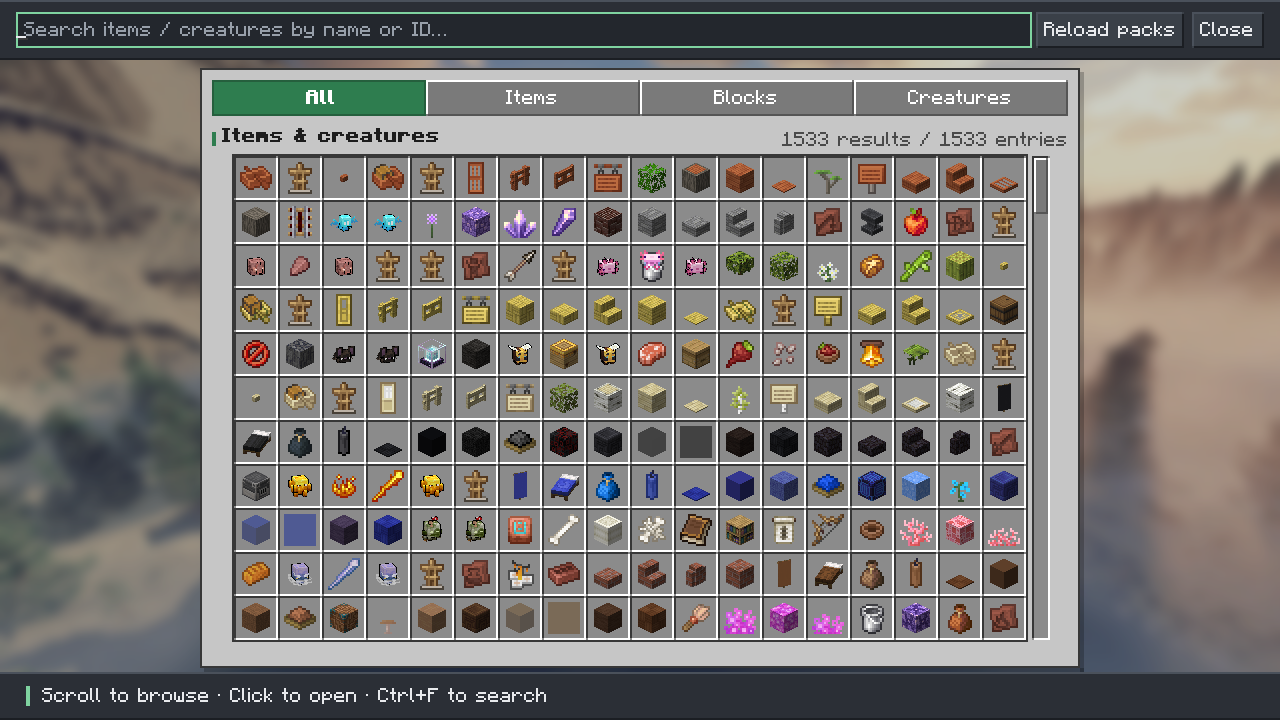
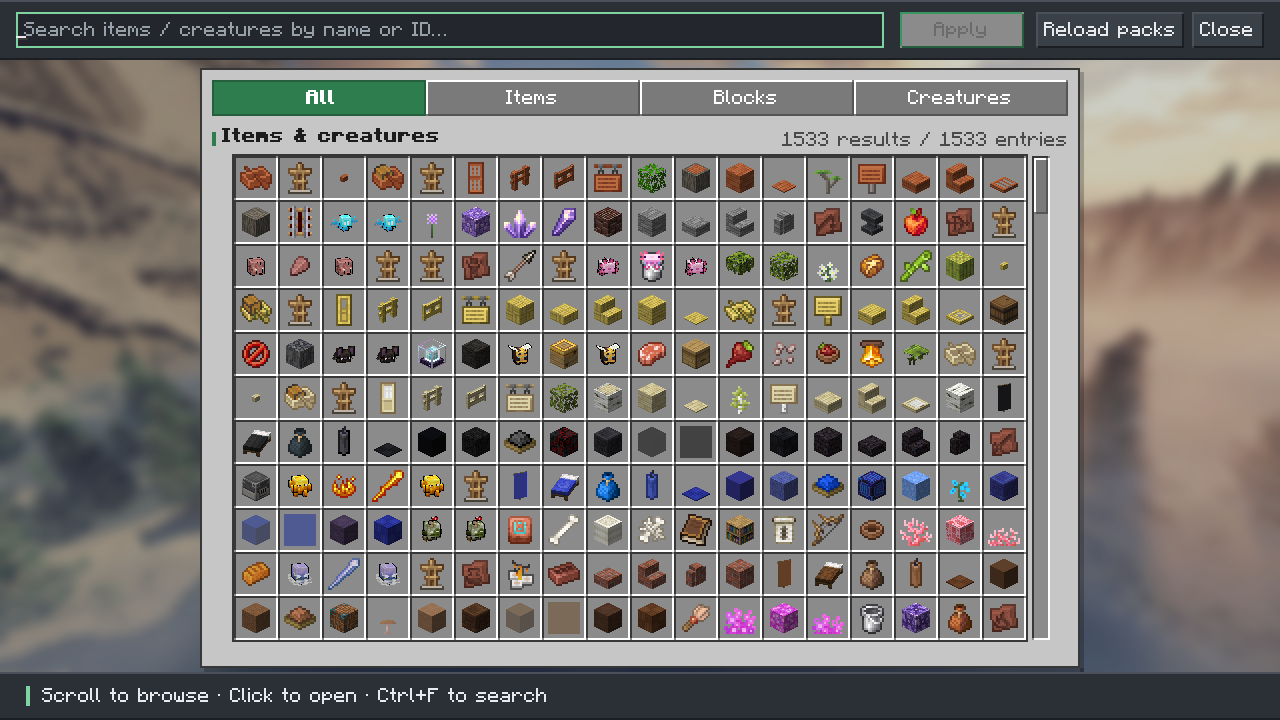
改完再应用：批改暂存，点应用只重载一次

diff --git a/src/client/java/com/abelian/client/ResourceManagerScreen.java b/src/client/java/com/abelian/client/ResourceManagerScreen.java
@@ -28,9 +28,9 @@ public final class ResourceManagerScreen extends Screen {
     private final Map<AbstractWidget, UiField> fields = new IdentityHashMap<>();
     private InventoryPage inventory;
     private UiField search;
-    private UiButton reload, close;
+    private UiButton reload, applyAll, close;
     private ResourceIndex.Snapshot snapshot;
-    private int generation, scanToken;
+    private int generation, scanToken, pendingEdits, reloads;
     private boolean scanning, closed;
     private long saveAt, statusUntil;
     private String query = "", status = "";
@@ -52,6 +52,10 @@ public final class ResourceManagerScreen extends Screen {
                             this::setSearchQuery)
                             .setChrome(true);
             reload = addButton("resourcemanager.ui.reload", this::reloadPacks).setStyle(UiButton.Style.CHROME);
+            applyAll = addButton("resourcemanager.ui.action.apply", this::applyPending)
+                    .setStyle(UiButton.Style.PRIMARY);
+            applyAll.setTooltip(
+                    Component.translatable("resourcemanager.ui.action.apply.hint").getString());
             close = addButton("resourcemanager.ui.close", this::onClose).setStyle(UiButton.Style.CHROME);
             inventory = new InventoryPage(this);
             inventory.createWidgets();
@@ -101,6 +105,9 @@ public final class ResourceManagerScreen extends Screen {
 
     public void reloadPacks() {
         if (scanning) return;
+        pendingEdits = 0;
+        reloads++;
+        syncApplyButton();
         inventory.refreshAppearanceRules();
         save();
         scanning = true;
@@ -128,6 +135,39 @@ public final class ResourceManagerScreen extends Screen {
         saveAt = Util.getMillis() + 400;
     }
 
+    /**
+     * Records one change that only becomes visible in game after the next pack reload. Edits are
+     * staged so a batch of them costs a single reload instead of one per click.
+     */
+    public void stageEdit() {
+        pendingEdits++;
+        syncApplyButton();
+    }
+
+    public int pendingEdits() {
+        return pendingEdits;
+    }
+
+    public int reloads() {
+        return reloads;
+    }
+
+    /** Confirm: one reload for every staged edit. */
+    public void applyPending() {
+        if (pendingEdits == 0) return;
+        reloadPacks();
+    }
+
+    private void syncApplyButton() {
+        if (applyAll == null) return;
+        applyAll.active = pendingEdits > 0 && !scanning;
+        applyAll.setMessage(
+                pendingEdits > 0
+                        ? Component.translatable(
+                                "resourcemanager.ui.action.applyCount", pendingEdits)
+                        : Component.translatable("resourcemanager.ui.action.apply"));
+    }
+
     private void save() {
         saveAt = 0;
         config.save();
@@ -139,7 +179,11 @@ public final class ResourceManagerScreen extends Screen {
     }
 
     public String displayedStatus() {
-        return Util.getMillis() < statusUntil ? status : inventory.statusText();
+        if (Util.getMillis() < statusUntil) return status;
+        if (pendingEdits > 0)
+            return Component.translatable("resourcemanager.ui.status.pending", pendingEdits)
+                    .getString();
+        return inventory.statusText();
     }
 
     public ResourceManagerConfig config() {
@@ -241,10 +285,12 @@ public final class ResourceManagerScreen extends Screen {
     }
 
     private void layout() {
-        showWidget(search.widget(), 8, 6, Math.max(40, width - 132), 18);
+        showWidget(search.widget(), 8, 6, Math.max(40, width - 206), 18);
+        showWidget(applyAll, width - 190, 6, 62, 18);
         showWidget(reload, width - 122, 6, 74, 18);
         showWidget(close, width - 44, 6, 36, 18);
         reload.active = !scanning;
+        syncApplyButton();
         inventory.layout();
         if (getFocused() instanceof AbstractWidget widget && !widget.visible) setFocused(null);
     }
@@ -341,6 +387,7 @@ public final class ResourceManagerScreen extends Screen {
     @Override
     public void removed() {
         closed = true;
+        if (pendingEdits > 0) reloadPacks();
         save();
         PackSoundPreview.stop();
         preview.release();

diff --git a/src/client/java/com/abelian/client/verify/InventoryVerify.java b/src/client/java/com/abelian/client/verify/InventoryVerify.java
@@ -164,8 +164,13 @@ public final class InventoryVerify {
                     check(
                             page.layerPacks().containsAll(List.of(PACK_A, PACK_B)),
                             "Appearance layers include model-only and texture-only packs");
+                    int stagedFrom = gui.reloads();
                     page.selectLayer(PACK_B);
                     page.applyLayer();
+                    check(gui.pendingEdits() == 1, "Applying a layer stages it instead of reloading");
+                    check(gui.reloads() == stagedFrom, "Staging a layer does not reload the packs");
+                    gui.applyPending();
+                    check(gui.pendingEdits() == 0, "Apply clears the staged batch");
                     next();
                     delay = 60;
                 }
@@ -193,8 +198,18 @@ public final class InventoryVerify {
                     check(
                             loads == page.previewLoads(),
                             "100 unchanged layouts do not decode another preview");
+                    int beforeReloads = gui.reloads();
+                    page.selectLayer(PACK_B);
+                    page.applyLayer();
                     page.selectLayer(PACK_A);
                     page.applyLayer();
+                    check(
+                            gui.pendingEdits() == 2,
+                            "Two applied layers wait for one shared reload");
+                    gui.applyPending();
+                    check(
+                            gui.reloads() == beforeReloads + 1,
+                            "A batch of edits costs a single reload");
                     next();
                     delay = 60;
                 }
@@ -318,6 +333,7 @@ public final class InventoryVerify {
                             "Audio-only pack is available without a sound definition");
                     page.selectLayer(PACK_B);
                     page.applyLayer();
+                    gui.applyPending();
                     next();
                     delay = 60;
                 }
@@ -539,6 +555,27 @@ public final class InventoryVerify {
                             serving(page.selectedAsset().location().getPath())
                                     .equals("file/ResourceManager-Edits"),
                             "Grouped local edits become the live provider after reload");
+                    next();
+                }
+                case 26 -> {
+                    page.setMode(0);
+                    var packs = page.layerPacks();
+                    check(!packs.isEmpty(), "Visuals mode offers at least one layer to stage");
+                    String pick = packs.contains("vanilla") ? "vanilla" : packs.get(0);
+                    page.selectLayer(pick);
+                    page.applyLayer();
+                    check(
+                            gui.pendingEdits() == 1,
+                            "A staged edit waits for the batch Apply button");
+                    shot = "readme-pending.png";
+                    next();
+                }
+                case 27 -> {
+                    int beforeReloads = gui.reloads();
+                    gui.applyPending();
+                    check(
+                            gui.reloads() == beforeReloads + 1,
+                            "Confirm reloads the packs exactly once");
                     next();
                 }
                 default -> finish(client);

diff --git a/src/client/java/com/abelian/client/page/InventoryPage.java b/src/client/java/com/abelian/client/page/InventoryPage.java
@@ -422,7 +422,8 @@ public final class InventoryPage {
         if (asset == null || pack.isEmpty()) return;
         if (mode == 0) {
             appearance.apply(host.config(), pack);
-            host.reloadPacks();
+            host.changed();
+            stage();
         } else if (mode == 1) {
             host.setTextOverride(subject.translationKey(), rawText);
             name.setValue(subject.name());
@@ -433,8 +434,15 @@ public final class InventoryPage {
                             pack,
                             catalog.soundDefinition(event(), pack),
                             catalog.audioFiles(event(), pack));
-            host.reloadPacks();
+            host.changed();
+            stage();
         }
+    }
+
+    /** Marks the row as pending and lets the player keep editing before one shared reload. */
+    private void stage() {
+        layers.setLayers(packRows, pack, appliedPack());
+        host.stageEdit();
     }
 
     private String event() {

diff --git a/docs/INVENTORY.md b/docs/INVENTORY.md
@@ -8,7 +8,7 @@ ResourceManager 在 Minecraft 1.21.4 Fabric 客户端中提供原生物品栏入
 
 ## 打开与浏览
 
-1. 按 F8 打开 Resource Manager。顶部是搜索框、重载与关闭；底部是状态栏，其余区域都属于物品栏。
+1. 按 F8 打开 Resource Manager。顶部是搜索框、应用、重载与关闭；底部是状态栏，其余区域都属于物品栏。
 2. 用 **全部 / 物品 / 方块 / 生物** 切分类。格子里画的是真实 ItemStack：方块用对应方块物品；生物用刷怪蛋，
    没有刷怪蛋的实体使用盔甲架图标，它不是生物的三维预览。
 3. 搜索框匹配显示名称、翻译键和命名空间 ID（如 `minecraft:diamond_sword`），中英文都可用，多个关键词按
@@ -49,11 +49,13 @@ ResourceManager 在 Minecraft 1.21.4 Fabric 客户端中提供原生物品栏入
 层列表只列出真正提供了这个对象某一部分的资源包，当前游戏正在使用的层在行首有一条绿色竖条。
 
 - **点击一行只预览**：选中行加深并加 1px 白框，更新贴图、文本或音频的预览来源，不改变游戏正在用的来源。
-- **游戏使用此层** 才应用：写入配置并立刻重载资源包。
+- **游戏使用此层** 只暂存：写入配置并标绿行首，顶部 **应用 (N)** 才重载。一次改多处只重载一次；关掉界面也会替你应用。
 - 外观整组切换：一个对象的所有外观文件（贴图、模型、方块状态、装备定义、动画元数据）只允许来自选中的包；
   该包缺少的文件使用内置来源，不混用其他目录/ZIP 包。
 - 音效按事件切换：每个事件单独记录来源，互不影响，也不会整份替换 `sounds.json`。
 - 共用同一资源 ID 的对象保持组内一致：一处冲突会把已配置的同组对象一起改到同一个来源。
+
+![暂存的改动与顶部应用按钮](inventory-pending.png)
 
 ## 名称
 
@@ -79,7 +81,7 @@ ResourceManager 在 Minecraft 1.21.4 Fabric 客户端中提供原生物品栏入
 
 选中资源和包层后点 **编辑本地副本**：当前外观依赖被完整复制到游戏目录下的
 `resourcepacks/ResourceManager-Edits/assets/<namespace>/<resource-path>`，并用系统关联编辑器打开该贴图。
-保存后回到游戏点 **重载资源包** 或按 F5。已经存在的编辑副本会保留内容，不会被原包重新覆盖；原目录包和 ZIP
+保存后回到游戏点顶部 **应用**（有暂存改动时变绿）或按 F5，改多少张图都只重载一次。已经存在的编辑副本会保留内容，不会被原包重新覆盖；原目录包和 ZIP
 包始终不被改写。系统需要已关联能编辑该扩展名的应用；打开副本也不会自动监听编辑器的保存。
 
 ## 紧凑布局

diff --git a/DESIGN.md b/DESIGN.md
@@ -48,7 +48,7 @@ colors:
 紧凑布局，用预览/覆盖层按钮访问两组控件，阈值对应 `frame.h()<252`。完整详情左右比例为 `max(96,(w−14)×40/100)`，
 列间隔 8。标准控件高 18，滑条高 18；列表行高 20。
 
-点击层只预览；游戏使用此层才应用和重载。外观按整个对象切层，名称与声音独立。输入框聚焦时保留原生光标导航。
+点击层只预览；游戏使用此层只暂存改动，顶部 **应用 (N)** 一次重载整批。外观按整个对象切层，名称与声音独立。输入框聚焦时保留原生光标导航。
 筛选隐藏当前条目时选择可见条目；空结果清除操作，重载保持已选资源。
 
 ## 约束

diff --git a/README.md b/README.md
@@ -29,7 +29,7 @@ its own layer, independently of the visual layer and of the other events.
 ## Pack layers
 
 Selecting an object lists the packs that actually provide part of it. Clicking a row only previews;
-**Use this layer** applies the choice and reloads resources in one step. The layer the game is using now
+**Use this layer** stages the choice; the chrome **Apply (N)** button reloads once for the whole batch. The layer the game is using now
 carries a green bar at its left edge.
 
 - Visuals switch as a whole, so a model can never end up drawn with another pack's texture.

diff --git a/README.zh_cn.md b/README.zh_cn.md
@@ -23,7 +23,7 @@
 
 ## 资源包层
 
-进入详情会列出真正提供了这个对象某个部分的资源包。点击一行只是预览，**游戏使用此层** 才应用并重载资源。
+进入详情会列出真正提供了这个对象某个部分的资源包。点击一行只是预览，**游戏使用此层** 暂存，顶部 **应用 (N)** 一次重载整批改动。
 当前生效的层的行首有一条绿色竖条。
 
 - 外观整组切换，模型不会配到另一个包的贴图。
